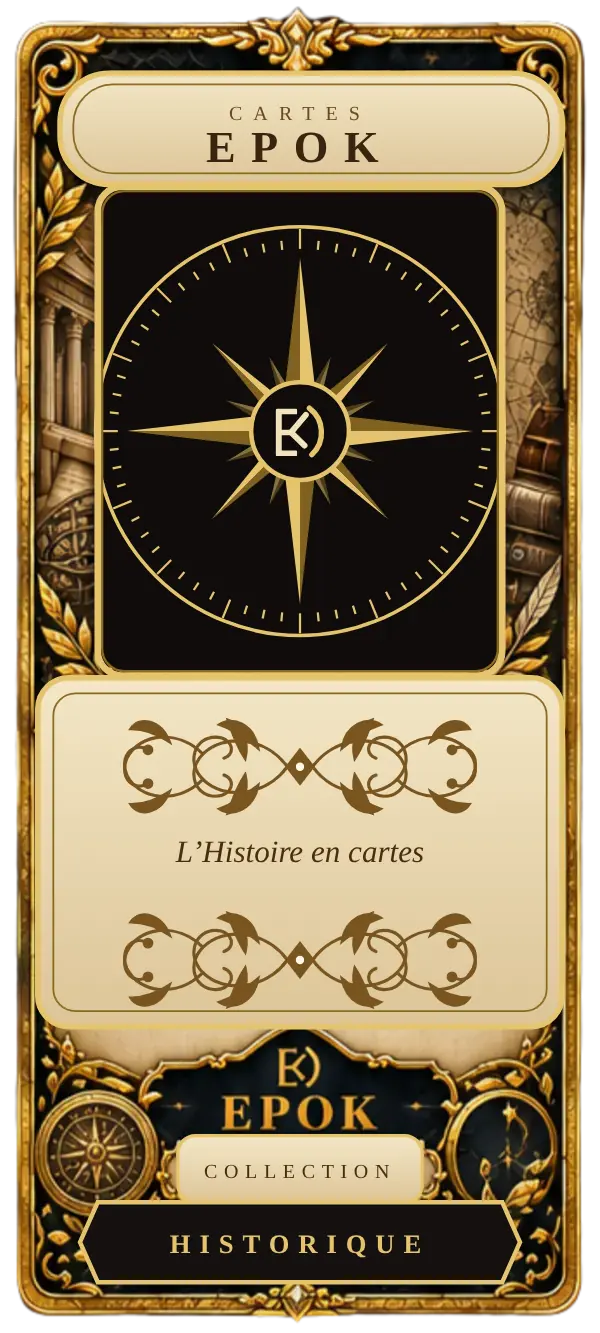
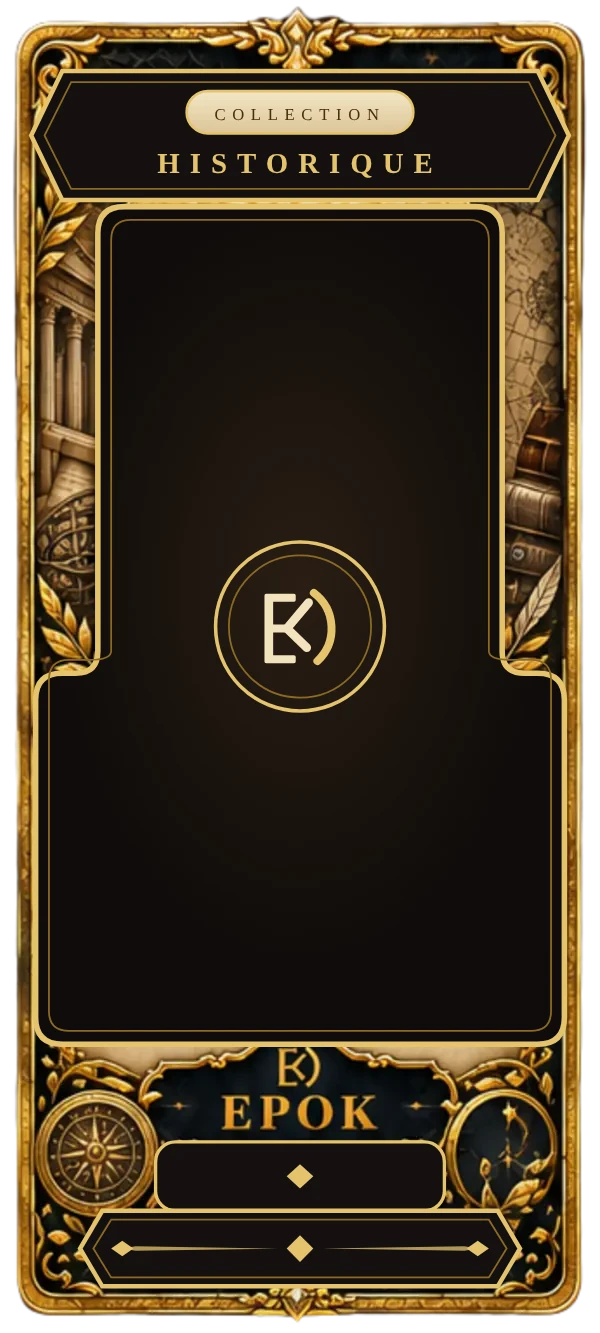
EPOK : dos allégé, nouveau booster, retournement plaqué avec onde de choc
Claude-Session: https://claude.ai/code/session_01XqXJfzsdn5oWpG7BJX3SYQ

diff --git a/epok/index.html b/epok/index.html
@@ -2,7 +2,7 @@
 <html lang="fr">
 <head>
 <meta charset="utf-8">
-<meta http-equiv="Content-Security-Policy" content="default-src 'self'; script-src 'self' 'sha256-Dv4L71IXbeWAryr+RXFNr84gP0s89cChznbNr5zUO4s=' 'sha256-kx787cUIdnAZwQlTRZvp6C66jHRC7b4OdLcpkNu3idE=' https://apis.google.com https://www.gstatic.com; style-src 'self' 'unsafe-inline'; img-src 'self' data: blob: https://*.googleusercontent.com https://www.gstatic.com; font-src 'self' data:; media-src 'self' data: blob:; connect-src 'self' https://firestore.googleapis.com https://identitytoolkit.googleapis.com https://securetoken.googleapis.com https://www.googleapis.com https://apis.google.com https://accounts.google.com; frame-src https://epok-71194.firebaseapp.com https://apis.google.com https://accounts.google.com; worker-src 'self'; manifest-src 'self'; object-src 'none'; base-uri 'none'; form-action 'self'">
+<meta http-equiv="Content-Security-Policy" content="default-src 'self'; script-src 'self' 'sha256-Dv4L71IXbeWAryr+RXFNr84gP0s89cChznbNr5zUO4s=' 'sha256-nDlNvPi4OLdC1k/R+FJJSYpqJH/2kwSXEEseIxhWdQk=' https://apis.google.com https://www.gstatic.com; style-src 'self' 'unsafe-inline'; img-src 'self' data: blob: https://*.googleusercontent.com https://www.gstatic.com; font-src 'self' data:; media-src 'self' data: blob:; connect-src 'self' https://firestore.googleapis.com https://identitytoolkit.googleapis.com https://securetoken.googleapis.com https://www.googleapis.com https://apis.google.com https://accounts.google.com; frame-src https://epok-71194.firebaseapp.com https://apis.google.com https://accounts.google.com; worker-src 'self'; manifest-src 'self'; object-src 'none'; base-uri 'none'; form-action 'self'">
 <meta name="referrer" content="strict-origin-when-cross-origin">
 <meta name="viewport" content="width=device-width, initial-scale=1, viewport-fit=cover">
 <meta name="color-scheme" content="light dark">
@@ -1457,28 +1457,16 @@ select{width:100%}
 @media (max-width:359px){ .onglets button{font-size:9.5px;letter-spacing:.02em} }
 .pli-carte{text-align:center}
 .pli-ferme{position:relative;display:block;margin:14px auto 10px;padding:0;border:0;background:none;cursor:pointer}
-/* Le booster « Cartes EPOK » : paquet metallise, bords sertis, sans indice. */
-.booster{position:relative;display:block;width:120px;height:178px;margin:0 auto;filter:drop-shadow(0 8px 14px rgba(0,0,0,.45))}
+/* Le booster « Cartes EPOK » : sachet metallise dessine en SVG (voir booster()). */
+.booster{position:relative;display:block;width:120px;height:178px;margin:0 auto;filter:drop-shadow(0 8px 14px rgba(0,0,0,.5))}
 .booster.grand{width:190px;height:282px}
-.booster-haut,.booster-corps{position:absolute;left:0;right:0;display:block;
-  background:linear-gradient(125deg,#5c1219 0%,#8f2430 30%,#d8b25c 47%,#f3dc9a 50%,#c79a43 53%,#8f2430 70%,#4f0f15 100%)}
-.booster-haut{top:0;height:13%;border-radius:4px 4px 0 0;
-  -webkit-mask:linear-gradient(#000,#000) 0 7px/100% 100% no-repeat,radial-gradient(circle 4px at 4px 0,transparent 3.5px,#000 4px) 0 0/8px 8px repeat-x;
-  mask:linear-gradient(#000,#000) 0 7px/100% 100% no-repeat,radial-gradient(circle 4px at 4px 0,transparent 3.5px,#000 4px) 0 0/8px 8px repeat-x}
-.booster-haut::after{content:"";position:absolute;left:6%;right:6%;bottom:2px;border-bottom:1.5px dashed rgba(255,240,200,.55)}
-.booster-corps{top:13%;bottom:0;border-radius:0 0 4px 4px;overflow:hidden;display:flex;flex-direction:column;align-items:center;justify-content:center;gap:6%;
-  -webkit-mask:linear-gradient(#000,#000) 0 0/100% calc(100% - 7px) no-repeat,radial-gradient(circle 4px at 4px 100%,transparent 3.5px,#000 4px) 0 100%/8px 8px repeat-x;
-  mask:linear-gradient(#000,#000) 0 0/100% calc(100% - 7px) no-repeat,radial-gradient(circle 4px at 4px 100%,transparent 3.5px,#000 4px) 0 100%/8px 8px repeat-x}
-.booster-reflet{position:absolute;inset:-40%;background:linear-gradient(115deg,transparent 40%,rgba(255,255,255,.35) 50%,transparent 60%);animation:reflet 3.2s ease-in-out infinite}
+.booster-haut,.booster-corps{position:absolute;left:0;right:0;display:block}
+.booster-haut{top:0;height:10.14%}
+.booster-corps{top:10.14%;bottom:0;overflow:hidden}
+.booster svg{display:block;width:100%;height:100%}
+.booster-reflet{position:absolute;inset:-40%;pointer-events:none;mix-blend-mode:screen;
+  background:linear-gradient(115deg,transparent 42%,rgba(255,236,190,.28) 50%,transparent 58%);animation:reflet 3.2s ease-in-out infinite}
 @keyframes reflet{0%,30%{transform:translateX(-45%)}70%,100%{transform:translateX(45%)}}
-.booster-logo{position:relative;display:flex;width:38%;padding:7%;border-radius:50%;background:rgba(20,8,8,.55);box-shadow:inset 0 0 0 2px #e6c77a}
-.booster-logo svg{width:100%;height:auto;display:block}
-.booster-titre{position:relative;display:flex;flex-direction:column;align-items:center;font:800 1.65em/1 var(--police-titre);letter-spacing:.14em;color:#fff3cf;
-  text-shadow:0 2px 0 #5c1219,0 0 12px rgba(255,220,140,.6)}
-.booster.grand .booster-titre{font-size:2.6em}
-.booster-titre small{font-size:.42em;letter-spacing:.32em;margin-bottom:4px;color:#f3dc9a}
-.booster-sous{position:relative;font:600 .62em var(--police-titre);letter-spacing:.06em;text-transform:uppercase;color:#f3dc9a;text-align:center;padding:0 8%}
-.booster.grand .booster-sous{font-size:.85em}
 /* Ouverture : le haut s'arrache, le paquet descend et s'efface. */
 .ouv-pli.casse .booster-haut{animation:arrache .55s cubic-bezier(.3,.6,.4,1) forwards}
 .ouv-pli.casse .booster-corps{animation:descend .5s ease-in .5s forwards}
@@ -1550,6 +1538,12 @@ body.ouv-active{overflow:hidden}
   transition:transform var(--duree,400ms) cubic-bezier(.3,.7,.2,1),opacity .5s;z-index:2}
 .ouv-carte.cachee{opacity:0;transform:scale(.55)}
 .ouv-carte.tournee{transform:rotateY(180deg)}
+/* Plaquee : le retournement est joue par ouvPlaquer() ; aucune transition ne s'en mele. */
+.ouv-carte.plaquee{transition:opacity .5s}
+.ouv-onde,.ouv-souffle{position:absolute;z-index:1;pointer-events:none;border-radius:6%/2.7%;opacity:0}
+.ouv-onde{border:3px solid var(--rar);box-shadow:0 0 18px var(--rar),inset 0 0 14px color-mix(in srgb,var(--rar) 60%,transparent)}
+.ouv-onde.o2{border-width:2px;border-color:color-mix(in srgb,var(--rar) 55%,#fff)}
+.ouv-souffle{background:radial-gradient(closest-side,color-mix(in srgb,var(--rar) 55%,transparent),transparent);border-radius:50%}
 .ouv-face{position:absolute;inset:0;border-radius:14px;overflow:hidden;backface-visibility:hidden;-webkit-backface-visibility:hidden}
 /* Dos neutre : rien ne trahit la rarete... sauf au survol (ou au doigt pose). */
 .ouv-dos{display:block;background:#120a0a;box-shadow:0 0 18px rgba(0,0,0,.5);transition:box-shadow .35s;border-radius:5.2%/2.4%}
@@ -7587,14 +7581,12 @@ const CARTES_PAR_N = {};
 function dossierCartes(){
   return (typeof location !== "undefined" && location.protocol === "file:") ? CARTES_SITE : "cartes/";
 }
-/* Dos des cartes (modele « Or & rose des vents ») : une image livree avec
-   l'application et le site, plus une ligne ecrite ici, a partir du nombre
-   reel de cartes et de raretes. Ajouter des cartes la met a jour. */
+/* Dos des cartes : une image allegee (le decor des cartes EPOK, « Collection
+   historique » en haut, le logo au milieu), livree avec l'application et le
+   site. Le nombre de personnages s'ecrit desormais sur le booster. */
 const DOS_CARTE = "cartes/dos.webp";
 function dosCarte(){
-  return `<svg class="dos-svg" viewBox="0 0 270 600" aria-hidden="true">${"<" + "image"} href="${DOS_CARTE}" width="270" height="600"/>
-    <text x="135" y="406" text-anchor="middle" font-family="Georgia,'Times New Roman',serif" font-size="8.5" letter-spacing="3" fill="#6b4a1e">${
-      CARTES.length} PERSONNAGE${CARTES.length > 1 ? "S" : ""} &#183; ${RARETES.length} RARETÉS</text></svg>`;
+  return `<svg class="dos-svg" viewBox="0 0 270 600" aria-hidden="true">${"<" + "image"} href="${DOS_CARTE}" width="270" height="600"/></svg>`;
 }
 function imageCarte(n, mini){ return dossierCartes() + (mini ? "mini/" : "grandes/") + n + ".webp"; }
 /* Zones de la carte (en pixels de l'original, 1170 x 2600) montrees comme
@@ -7765,18 +7757,75 @@ function voirCarte(n, el){
 }
 
 /* ---------- Le booster ----------
-   Un paquet scelle « Cartes EPOK », sans aucun indice sur son contenu. */
-function marqueEpok(){
-  const m = typeof document !== "undefined" && document.querySelector(".entete .vignette svg");
-  return m ? m.outerHTML : "";
+   Un sachet metallise scelle, dans le style des cartes EPOK : soudures
+   striees et dentelees en haut et en bas, encoches de dechirure, cadre d'or,
+   medaillon du logo dans une couronne de laurier, rose des vents en filigrane.
+   Rien n'y trahit son contenu ; le nombre de personnages suit le catalogue.
+   Dessine deux fois (haut et corps) pour que le haut s'arrache a l'ouverture. */
+let BOOSTER_N = 0;
+function logoEpok(x, y, s, e, arc){
+  return `<g transform="translate(${x - 50 * s},${y - 50 * s}) scale(${s})"><g transform="translate(-4.328,-4.087) scale(1.11732)">
+    <path d="M21.4,22 H43.78 A1.4,1.4 0 0 1 45.18,23.4 V27.11 A1.4,1.4 0 0 1 43.78,28.51 H27 V46.74 H36.65 A1.4,1.4 0 0 1 38.05,48.14 V51.85 A1.4,1.4 0 0 1 36.65,53.25 H27 V71.49 H43.78 A1.4,1.4 0 0 1 45.18,72.89 V76.6 A1.4,1.4 0 0 1 43.78,78 H21.4 A1.4,1.4 0 0 1 20,76.6 V23.4 A1.4,1.4 0 0 1 21.4,22 Z" fill="${e}"/>
+    <path d="M38.05,50 L55.57,29.13 M38.05,50 L54.06,65.46" fill="none" stroke="${e}" stroke-width="7" stroke-linecap="round"/>
+    <path d="M59.78,21.3 A36,36 0 0 1 62.66,76.27" fill="none" stroke="${arc}" stroke-width="6.4" stroke-linecap="round"/></g></g>`;
+}
+function dessinBooster(id){
+  const OR = "#e5c46e", OS = "#8c6a22", n = CARTES.length;
+  /* Soudures dentelees : pointes vers le haut en haut, vers le bas en bas. */
+  let haut = "M0,0", bas = "M0,274 H200";
+  for(let x = 0; x <= 200; x += 5) haut += ` L${x},${x % 10 ? 4 : 0}`;
+  for(let x = 200; x >= 0; x -= 5) bas += ` L${x},${x % 10 ? 292 : 296}`;
+  haut += " L200,22 L0,22 Z"; bas += " Z";
+  /* Couronne de laurier : 2 tiges qui montent autour du medaillon, une paire
+     de feuilles a chaque noeud, pointees vers le haut de la tige. */
+  const feuilles = [], tiges = [];
+  for(const s of [-1, 1]){
+    const pt = (f, r) => [100 + s * r * Math.sin(f), 160 + r * Math.cos(f)];
+    const [x0, y0] = pt(.35, 46), [x1, y1] = pt(2.55, 46);
+    tiges.push(`<path d="M${x0.toFixed(1)},${y0.toFixed(1)} A46,46 0 0 ${s > 0 ? 0 : 1} ${x1.toFixed(1)},${y1.toFixed(1)}" fill="none" stroke="${OR}" stroke-width="1.2"/>`);
+    for(let k = 0; k < 8; k++){
+      const f = .45 + k * .28, tan = Math.atan2(-Math.sin(f), s * Math.cos(f)) * 180 / Math.PI;
+      for(const c of [-1, 1]){
+        const [x, y] = pt(f, 46 + c * 5.5), ang = tan + c * s * 28;
+        feuilles.push(`<ellipse cx="${x.toFixed(1)}" cy="${y.toFixed(1)}" rx="6.5" ry="2.4" transform="rotate(${ang.toFixed(0)} ${x.toFixed(1)} ${y.toFixed(1)})"/>`);
+      }
+    }
+  }
+  const rose = Array.from({ length: 8 }, (_, k) => { const a = k * Math.PI / 4, L = k % 2 ? 40 : 66;
+    const p = (r, d) => `${(100 + r * Math.sin(a + d)).toFixed(1)},${(160 - r * Math.cos(a + d)).toFixed(1)}`;
+    return `<path d="M100,160 L${p(9, Math.PI / 2)} L${p(L, 0)} Z"/><path d="M100,160 L${p(9, -Math.PI / 2)} L${p(L, 0)} Z" opacity=".6"/>`; }).join("");
+  const coin = (x, y, sx, sy) => `<path transform="translate(${x},${y}) scale(${sx},${sy})" d="M0,14 C0,6 6,0 14,0 M4,14 C4,9 9,4 14,4 M0,0 L5,5" fill="none" stroke="${OR}" stroke-width="1.2" stroke-linecap="round"/>`;
+  return `<defs>
+      <linearGradient id="${id}m" x1="0" y1="0" x2="1" y2="0"><stop offset="0" stop-color="#5a3c12"/><stop offset=".25" stop-color="#c99a3e"/><stop offset=".45" stop-color="#f6e3a1"/><stop offset=".6" stop-color="#b7862f"/><stop offset="1" stop-color="#4f3410"/></linearGradient>
+      <linearGradient id="${id}f" x1="0" y1="0" x2="1" y2="0"><stop offset="0" stop-color="#040302"/><stop offset=".12" stop-color="#1d1510"/><stop offset=".5" stop-color="#2c2016"/><stop offset=".88" stop-color="#1d1510"/><stop offset="1" stop-color="#040302"/></linearGradient>
+      <radialGradient id="${id}h" cx=".5" cy=".52" r=".5"><stop offset="0" stop-color="#6b3d18" stop-opacity=".55"/><stop offset="1" stop-color="#6b3d18" stop-opacity="0"/></radialGradient>
+      <pattern id="${id}s" width="3" height="10" patternUnits="userSpaceOnUse"><rect width="1.2" height="10" fill="#000" opacity=".28"/></pattern>
+      <linearGradient id="${id}p" x1="0" y1="0" x2="0" y2="1"><stop offset="0" stop-color="#f3e6c6"/><stop offset="1" stop-color="#dcc597"/></linearGradient></defs>
+    <path d="${haut}" fill="url(#${id}m)"/><path d="${haut}" fill="url(#${id}s)"/>
+    <path d="${bas}" fill="url(#${id}m)"/><path d="${bas}" fill="url(#${id}s)"/>
+    <path d="M4,22 H196 V27 L190,30 L196,33 V274 H4 V33 L10,30 L4,27 Z" fill="url(#${id}f)"/>
+    <rect x="4" y="34" width="192" height="240" fill="url(#${id}h)"/>
+    <line x1="12" y1="30" x2="188" y2="30" stroke="${OR}" stroke-width=".7" stroke-dasharray="3 3" opacity=".55"/>
+    <g fill="${OR}" opacity=".13">${rose}</g>
+    <rect x="16" y="38" width="168" height="226" rx="9" fill="none" stroke="${OR}" stroke-width="1.8"/>
+    <rect x="21" y="43" width="158" height="216" rx="6" fill="none" stroke="${OS}" stroke-width=".8"/>
+    ${coin(25, 52, 1, 1)}${coin(175, 52, -1, 1)}${coin(25, 254, 1, -1)}${coin(175, 254, -1, -1)}
+    <rect x="72" y="52" width="56" height="15" rx="7.5" fill="url(#${id}p)" stroke="${OR}" stroke-width="1"/>
+    <text x="100" y="62.5" text-anchor="middle" font-family="Georgia,serif" font-size="7" letter-spacing="3" fill="#4a2f12">CARTES</text>
+    <text class="booster-titre" x="100" y="101" text-anchor="middle" font-family="Georgia,'Times New Roman',serif" font-weight="700" font-size="34" letter-spacing="6" fill="${OR}" stroke="#3a240c" stroke-width=".8" paint-order="stroke">EPOK</text>
+    ${tiges.join("")}<g fill="${OR}">${feuilles.join("")}</g>
+    <circle cx="100" cy="160" r="33" fill="#0f0c0a" stroke="${OR}" stroke-width="2"/><circle cx="100" cy="160" r="28" fill="none" stroke="${OS}" stroke-width=".8"/>
+    ${logoEpok(100, 160, .44, "#f3e3bd", OR)}
+    <path d="M40,214 H160 L168,226 L160,238 H40 L32,226 Z" fill="#141010" stroke="${OR}" stroke-width="1.4"/>
+    <text x="100" y="230.5" text-anchor="middle" font-family="Georgia,serif" font-weight="700" font-size="11" letter-spacing="3.5" fill="${OR}">3 CARTES</text>
+    <text class="booster-sous" x="100" y="251" text-anchor="middle" font-family="Georgia,serif" font-style="italic" font-size="7.6" fill="#f3dc9a">parmi ${n} personnage${n > 1 ? "s" : ""} historique${n > 1 ? "s" : ""}</text>
+    <path d="M4,40 L30,34 L22,58 Z M196,250 L174,268 L184,240 Z" fill="#fff" opacity=".05"/><path d="M4,262 L26,270 L8,240 Z M196,44 L172,36 L190,64 Z" fill="#000" opacity=".25"/>`;
 }
 function booster(grand){
+  const id = "bo" + (++BOOSTER_N);
   return `<span class="booster${grand ? " grand" : ""}" aria-hidden="true">
-    <span class="booster-haut"></span>
-    <span class="booster-corps"><span class="booster-reflet"></span>
-      <span class="booster-logo">${marqueEpok()}</span>
-      <span class="booster-titre"><small>Cartes</small>EPOK</span>
-      <span class="booster-sous">3 personnages historiques</span></span></span>`;
+    <span class="booster-haut"><svg viewBox="0 0 200 30" preserveAspectRatio="none">${dessinBooster(id + "a")}</svg></span>
+    <span class="booster-corps"><svg viewBox="0 30 200 266" preserveAspectRatio="none">${dessinBooster(id + "b")}</svg><span class="booster-reflet"></span></span></span>`;
 }
 
 /* ---------- L'ouverture ----------
@@ -7869,11 +7918,10 @@ function ouvRetourner(){
   const retourner = (attente, duree) => ouvMinuteur(() => {
     el.classList.remove("tremble");
     v.style.setProperty("--ambiance", coul);
-    el.style.setProperty("--duree", duree + "ms");
-    el.classList.add("tournee");
-    ouvMinuteur(() => ouvRevelee(n), duree);
+    ouvPlaquer(el, duree, coul);
+    ouvMinuteur(() => ouvRevelee(n), duree + 120);
   }, attente);
-  if(ri <= 2){ retourner(tremble, ri === 2 ? 800 : 450); return; }
+  if(ri <= 2){ retourner(tremble, ri === 2 ? 1200 : 1000); return; }
   /* La sortie : la carte s'efface, l'ecran prend la couleur, les indices
      tombent du moins parlant au plus parlant. */
   ouvMinuteur(() => {
@@ -7889,7 +7937,39 @@ function ouvRetourner(){
   indices.forEach((h, k) => ouvMinuteur(() => { ind.insertAdjacentHTML("beforeend", h); }, t0 + k * pas));
   const fin = t0 + indices.length * pas + 900;
   ouvMinuteur(() => { ind.classList.add("part"); el.classList.remove("cachee"); }, fin);
-  retourner(fin + 600, 1400);
+  retourner(fin + 600, 1700);
+}
+
+/* Le retournement : on souleve la carte, elle se retourne en l'air, puis on
+   la plaque sur la table ; a l'impact, la scene tressaille et une onde de
+   choc de la couleur de la rarete part de la carte. Web Animations : joue
+   partout, comme les bulles. */
+const OUV_IMPACT = .86;
+function ouvPlaquer(el, duree, coul){
+  el.classList.add("plaquee", "tournee");
+  if(!el.animate) return;
+  el.animate([
+    { transform: "translateY(0) scale(1) rotateX(0deg) rotateY(0deg)", easing: "cubic-bezier(.2,.7,.3,1)" },
+    { transform: "translateY(-8%) scale(1.14) rotateX(16deg) rotateY(0deg)", offset: .28, easing: "cubic-bezier(.45,0,.55,1)" },
+    { transform: "translateY(-10%) scale(1.18) rotateX(10deg) rotateY(180deg)", offset: .7, easing: "cubic-bezier(.7,0,1,.5)" },
+    { transform: "translateY(1%) scale(.94) rotateX(0deg) rotateY(180deg)", offset: OUV_IMPACT, easing: "cubic-bezier(.2,.8,.3,1)" },
+    { transform: "translateY(0) scale(1) rotateX(0deg) rotateY(180deg)" }
+  ], { duration: duree });
+  ouvMinuteur(() => {
+    const scene = el.parentNode;
+    if(!scene) return;
+    const r = el.getBoundingClientRect(), sc = scene.getBoundingClientRect();
+    const place = `left:${r.left - sc.left}px;top:${r.top - sc.top}px;width:${r.width}px;height:${r.height}px;--rar:${coul}`;
+    scene.insertAdjacentHTML("beforeend", `<span class="ouv-onde" aria-hidden="true" style="${place}"></span><span class="ouv-onde o2" aria-hidden="true" style="${place}"></span><span class="ouv-souffle" aria-hidden="true" style="${place}"></span>`);
+    const ondes = scene.querySelectorAll(".ouv-onde, .ouv-souffle");
+    ondes.forEach((o, k) => o.animate(k === 2
+      ? [{ opacity: .9, transform: "scale(.9)" }, { opacity: 0, transform: "scale(1.9)" }]
+      : [{ opacity: 1, transform: "scale(1)" }, { opacity: 0, transform: `scale(${k ? 2.1 : 1.6})` }],
+      { duration: k === 1 ? 900 : 650, delay: k === 1 ? 90 : 0, easing: "cubic-bezier(.1,.7,.3,1)", fill: "both" }));
+    scene.animate([{ transform: "translate(0,0)" }, { transform: "translate(-5px,4px)" }, { transform: "translate(4px,-3px)" },
+      { transform: "translate(-2px,2px)" }, { transform: "translate(0,0)" }], { duration: 280, easing: "ease-out" });
+    ouvMinuteur(() => ondes.forEach(o => o.remove()), 1100);
+  }, duree * OUV_IMPACT);
 }
 
 function ouvRevelee(n){

diff --git a/epok/sw.js b/epok/sw.js
@@ -6,7 +6,7 @@
    bibliotheques) est servi depuis le cache, puis mis en cache a la
    premiere lecture. VERSION change a chaque publication (publier_web.sh) :
    le nouveau service worker remplace alors l'ancien et vide son cache. */
-const VERSION = "202610240155-0450d95";
+const VERSION = "202610240229-1bc8f8e";
 const CACHE = "epok-" + VERSION;
 const ESSENTIEL = ["./", "index.html", "config-compte.js", "manifest.webmanifest", "icone-192.png", "icone-512.png"];
 
